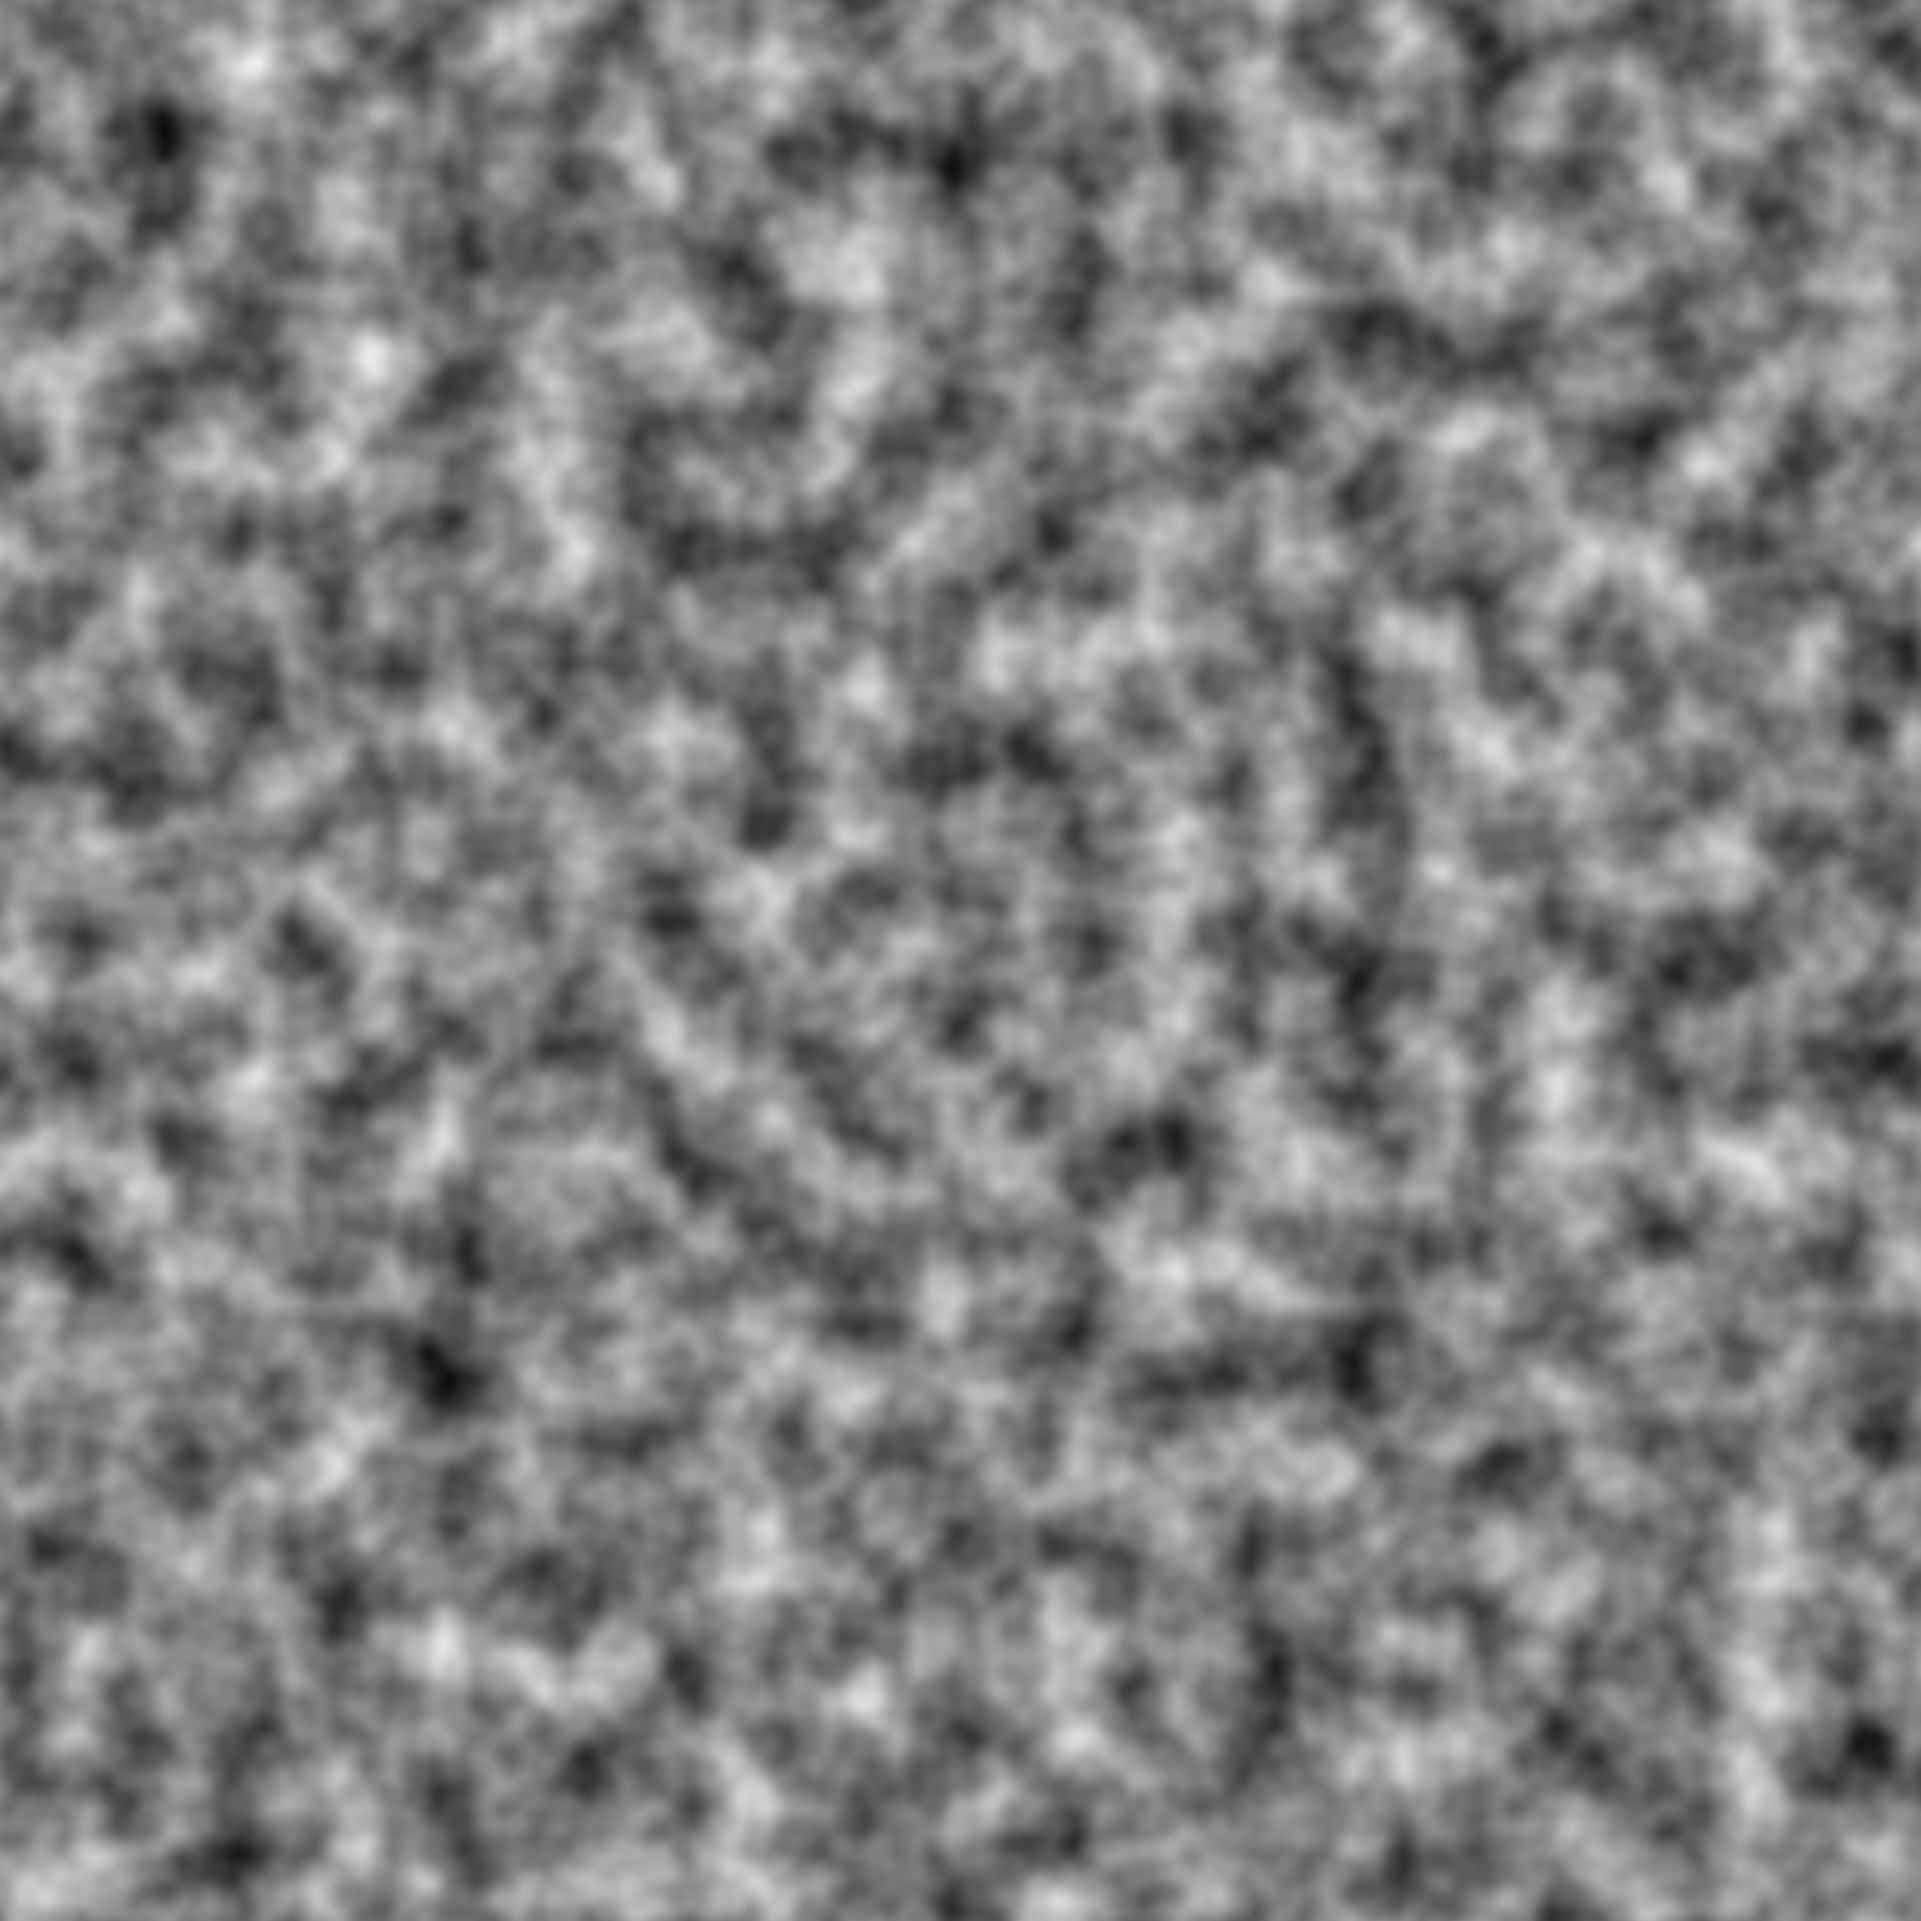
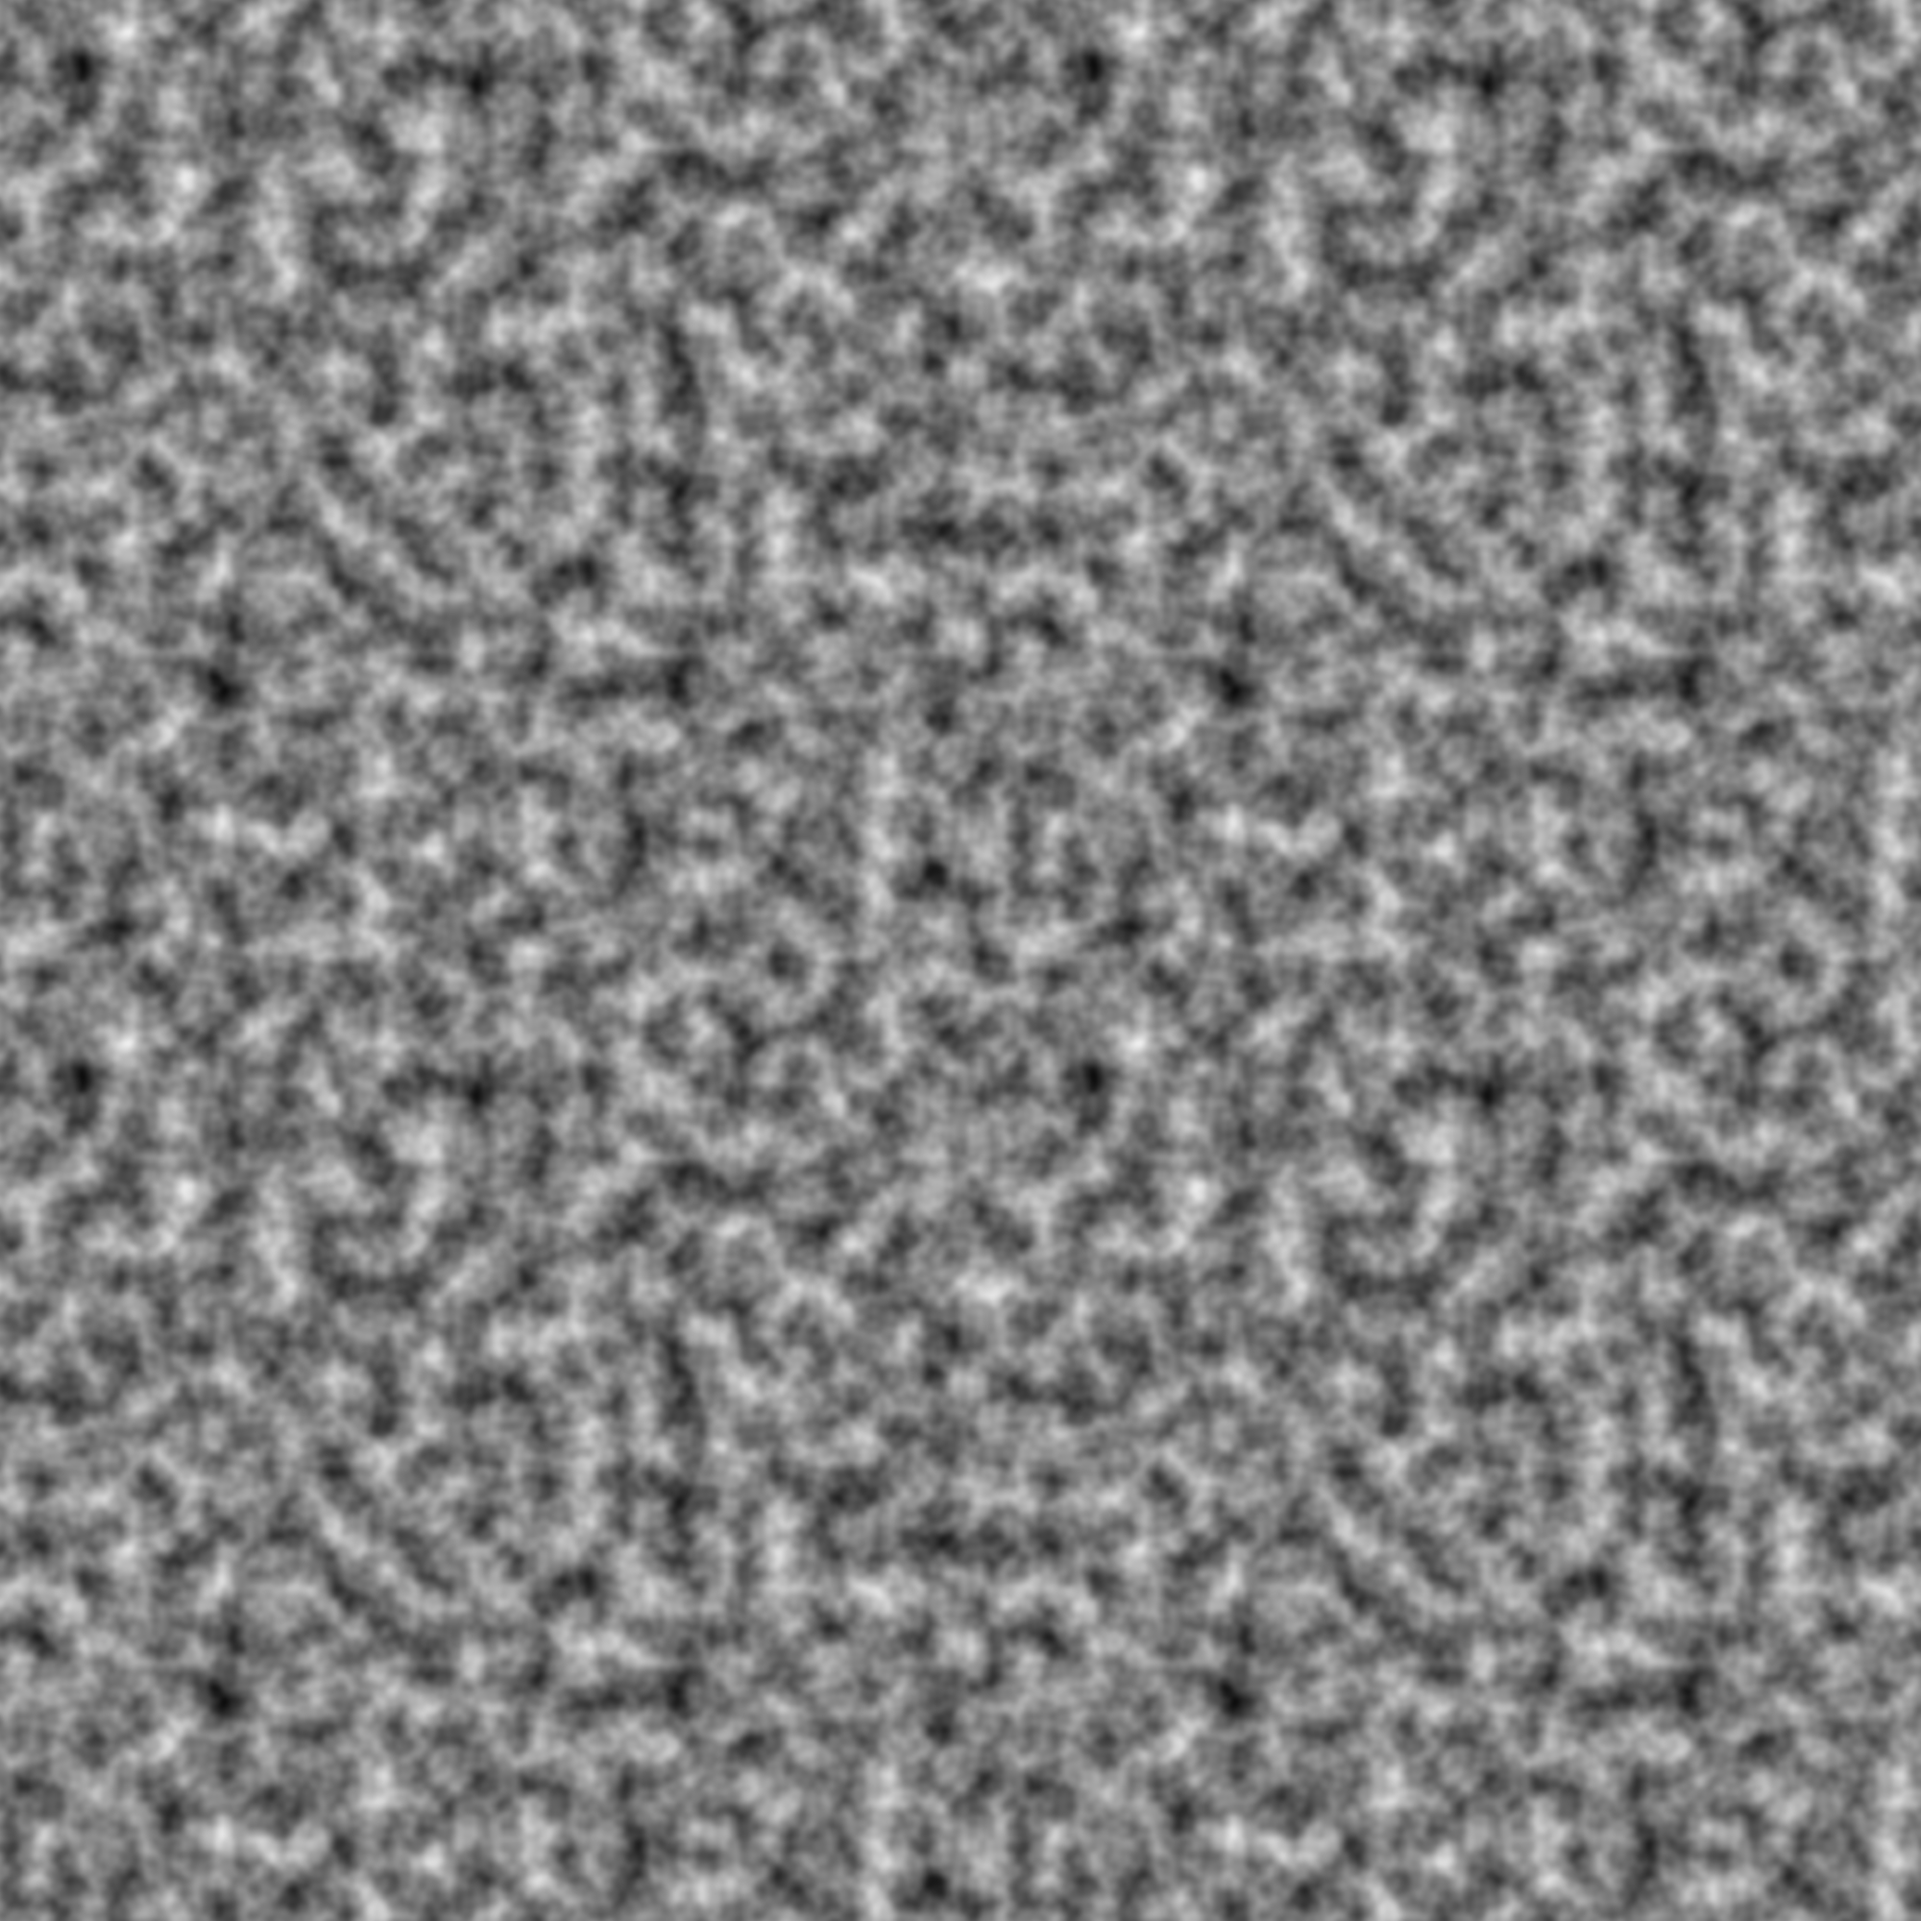
changing freq!

diff --git a/main.go b/main.go
@@ -8,7 +8,7 @@ import (
 )
 
 func main() {
-	perlinNoise := noise.NewPerlinNoise(100, 3, 2.0, 1.0, 0.5, 1.0)
+	perlinNoise := noise.NewPerlinNoise(100, 3, 2.0, 2.0, 0.5, 1.0)
 	img, err := image.CreateNoiseImage(&perlinNoise, 2000, 2000)
 
 	if err != nil {
